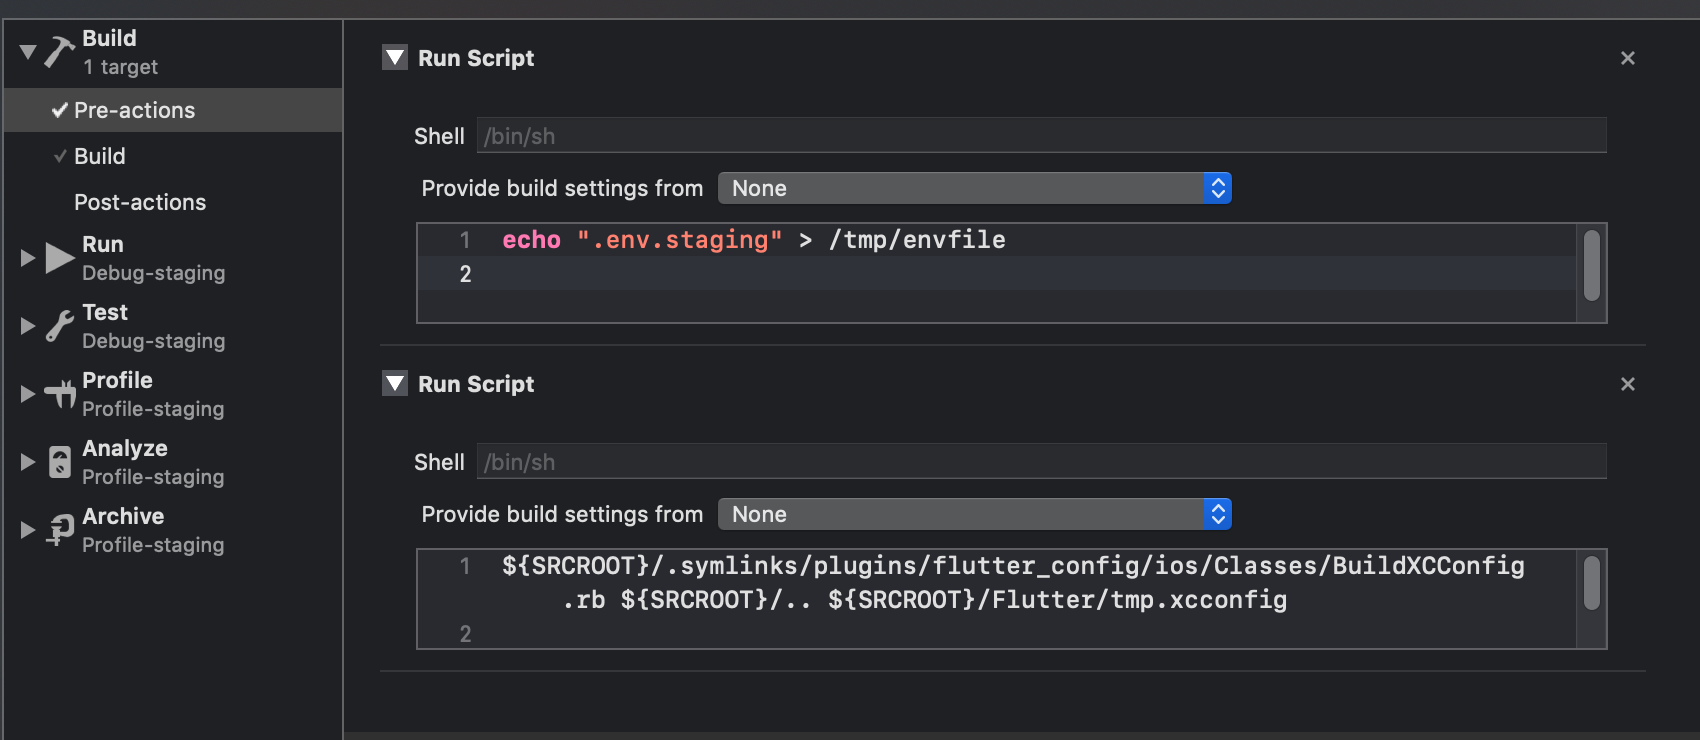
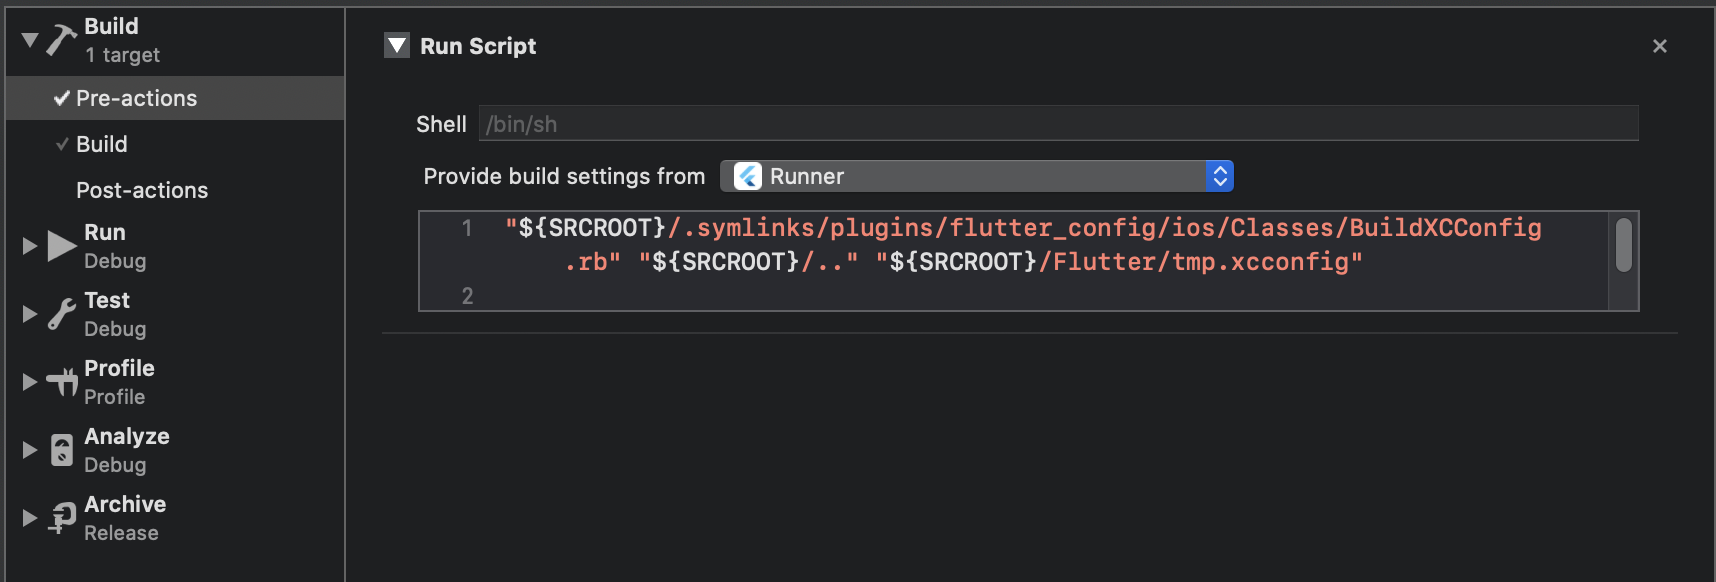
Update iOS Advanced Setup docs

diff --git a/doc/IOS.md b/doc/IOS.md
@@ -34,10 +34,13 @@ Extra steps are required if you are reading env varibles from your `info.plist` 
    ![img](./pic3.png)
 
    ```
-   ${SRCROOT}/.symlinks/plugins/flutter_config/ios/Classes/BuildXCConfig.rb ${SRCROOT}/.. ${SRCROOT}/Flutter/tmp.xcconfig
+   "${SRCROOT}/.symlinks/plugins/flutter_config/ios/Classes/BuildXCConfig.rb" "${SRCROOT}/.." "${SRCROOT}/Flutter/tmp.xcconfig"
    ```
 
-4. You need to do this for both your `Debug` and `Release` Schemes.
+4. Choose the target you're building for (in this case "Runner") under "Provide build settings from"
+   ![img](./pic4.png)
+
+5. You need to do this for both your `Debug` and `Release` Schemes.
 
 This should now create a `tmp.xcconfig` file which can be accessed by `info.plist`
 
@@ -70,7 +73,7 @@ echo ".env.yuorCustomEnv" > /tmp/envfile
 
 As a pre-build action. The end result should look something like this:
 
-![img](./pic4.png)
+![img](./pic5.png)
 
 It may be a better Idea not modifying system-wide files like /tmp/envfile
 but instead set the file in the current directory, I have been trying to implement this but may need some help, [See #2](https://github.com/ByneappLLC/flutter_config/issues/2)
